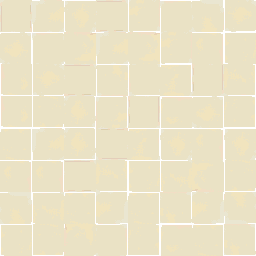
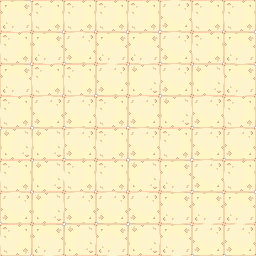
feat(observability): decorative floor everywhere + darker tile as office border
- Floor is now the decorative tile (cream#13) across the whole room, mixed by
  rotation, lightened + slightly more saturated (TONE). Dropped the separate
  corner accent zones.
- The darker cream tiles (#12/#15) now frame the whole office as a BORDER: the
  lane tile backs .oc-floor, an inset ::before field carries the decorative floor,
  leaving a tiled border around the perimeter. Corner props moved inside the frame.

diff --git a/workbench/control_plane/src/app/observability/office-topdown.tsx b/workbench/control_plane/src/app/observability/office-topdown.tsx
@@ -142,9 +142,6 @@ export function TopDownOffice({
         ...(OFFICE_ENV.wall
           ? { "--oc-wall": `url(${OFFICE_ENV.wall})`, "--oc-wall-bg": OFFICE_ENV.wallBg ?? "auto" }
           : {}),
-        ...(OFFICE_ENV.corner
-          ? { "--oc-corner": `url(${OFFICE_ENV.corner})`, "--oc-corner-bg": OFFICE_ENV.cornerBg ?? "auto" }
-          : {}),
         ...(OFFICE_ENV.lane
           ? { "--oc-lane": `url(${OFFICE_ENV.lane})`, "--oc-lane-bg": OFFICE_ENV.laneBg ?? "auto" }
           : {}),
@@ -174,11 +171,6 @@ export function TopDownOffice({
             <span className="oc-sign">THE OFFICE</span>
           </div>
           <div className="oc-floor">
-            {/* Zoned floor: a different Honeytan tile in each corner over the
-                base checker, so the floor reads as a laid-out room. */}
-            {["oc-fz-tl", "oc-fz-tr", "oc-fz-bl", "oc-fz-br"].map((z) => (
-              <span key={z} className={`oc-fz oc-fz-corner ${z}`} aria-hidden />
-            ))}
             {CORNER_PROPS.map(([p, corner]) => (
               // eslint-disable-next-line @next/next/no-img-element
               <img key={p} className={`oc-prop ${corner}`} src={`/office-props/${p}.png`} alt="" aria-hidden />
@@ -204,8 +196,6 @@ export function TopDownOffice({
                 </div>
               ))}
             </div>
-            {/* Walkway lane separating the meeting area from the desks. */}
-            <div className="oc-lane" aria-hidden />
             <div className="oc-grid">
               {roster.map((a) => (
                 <Seat key={a.name} agent={a} state={stateOf(a)} onOpen={onOpen} />
@@ -246,44 +236,34 @@ export const TOPDOWN_STYLE = `
 .oc-sign { font-family:ui-monospace,monospace; font-size:12px; letter-spacing:.28em;
   color:#6f5f3c; text-shadow:0 1px 0 rgba(255,255,255,.5); }
 
-/* Floor — the seamless tile repeats to fill; procedural fallback when no tile yet. */
+/* Floor — the darker lane tile frames the whole office as a BORDER; an inset
+   ::before field carries the main floor tile. */
 .oc-floor {
-  position:relative; padding:58px 16px 54px;
-  background-color:#e9e2d3;
-  background-image:
-    var(--oc-floor, none),
-    repeating-linear-gradient(0deg, transparent, transparent 33px, rgba(0,0,0,.035) 33px, rgba(0,0,0,.035) 34px),
-    repeating-linear-gradient(90deg, transparent, transparent 33px, rgba(0,0,0,.035) 33px, rgba(0,0,0,.035) 34px);
-  background-size: var(--oc-floor-bg,auto), auto, auto;
-  background-repeat: repeat, repeat, repeat;
+  position:relative; padding:58px 46px 54px;
+  background-color:#cbb89a;
+  background-image: var(--oc-lane, none);
+  background-size: var(--oc-lane-bg, auto);
+  background-repeat: repeat;
   image-rendering:pixelated;
   box-shadow: inset 0 14px 26px rgba(0,0,0,.08), inset 0 -12px 22px rgba(0,0,0,.06);
+}
+.oc-floor::before {
+  content:''; position:absolute; inset:34px; z-index:0; pointer-events:none;
+  background-image: var(--oc-floor, none);
+  background-size: var(--oc-floor-bg, auto);
+  background-repeat: repeat; image-rendering:pixelated; border-radius:5px;
+  box-shadow: inset 0 0 0 2px rgba(0,0,0,.10), 0 0 0 1px rgba(255,255,255,.10),
+    inset 0 12px 22px rgba(0,0,0,.05);
 }
 
 /* Corner props stay pinned to the room corners at ANY size. Scaled to sit in
    proportion to the seated agents (~90px), not tiny. */
 .oc-prop { position:absolute; height:74px; z-index:1; image-rendering:pixelated;
   filter:drop-shadow(0 4px 3px rgba(0,0,0,.32)); pointer-events:none; }
-.oc-prop.oc-tl { top:8px;  left:14px; }
-.oc-prop.oc-tr { top:8px;  right:14px; }
-.oc-prop.oc-bl { bottom:12px; left:14px; }
-.oc-prop.oc-br { bottom:12px; right:14px; }
-
-/* Zoned floor — a different Honeytan tile in each corner over the base checker,
-   plus a plank walkway lane, so the floor reads as a laid-out room not one repeat. */
-.oc-fz { position:absolute; z-index:0; pointer-events:none; image-rendering:pixelated;
-  background-repeat:repeat; background-size: var(--oc-corner-bg,auto); }
-.oc-fz-corner { width:clamp(120px, 22%, 200px); height:clamp(96px, 20%, 168px);
-  background-image: var(--oc-corner);
-  box-shadow: inset 0 0 0 2px rgba(0,0,0,.05); }
-.oc-fz-tl { top:0; left:0; border-bottom-right-radius:16px; }
-.oc-fz-tr { top:0; right:0; border-bottom-left-radius:16px; }
-.oc-fz-bl { bottom:0; left:0; border-top-right-radius:16px; }
-.oc-fz-br { bottom:0; right:0; border-top-left-radius:16px; }
-.oc-lane { position:relative; z-index:2; height:76px; margin:0 -16px 16px;
-  background-image: var(--oc-lane); image-rendering:pixelated; background-repeat:repeat;
-  background-size: var(--oc-lane-bg,auto);
-  box-shadow: inset 0 7px 12px rgba(0,0,0,.10), inset 0 -7px 12px rgba(0,0,0,.10); }
+.oc-prop.oc-tl { top:40px;  left:44px; }
+.oc-prop.oc-tr { top:40px;  right:44px; }
+.oc-prop.oc-bl { bottom:42px; left:44px; }
+.oc-prop.oc-br { bottom:42px; right:44px; }
 
 /* Conference zone — one table by default; wraps to a grid of tables as more
    collaborations spawn. */
@@ -351,10 +331,12 @@ export const TOPDOWN_STYLE = `
   .oc-figure { height:104px; }
   .oc-static { height:104px; }
   .oc-anim { --w:104px; }
-  .oc-floor { padding:52px 8px 46px; }
+  .oc-floor { padding:48px 26px 42px; }
+  .oc-floor::before { inset:16px; }
   .oc-prop { height:56px; }
+  .oc-prop.oc-tl { top:22px; left:22px; }
+  .oc-prop.oc-bl { bottom:24px; left:22px; }
   .oc-prop.oc-tr, .oc-prop.oc-br { display:none; }
-  .oc-lane { margin:0 -8px 12px; height:58px; }
   .oc-sign { display:none; }
 }
 

diff --git a/workbench/control_plane/src/app/observability/office-env.generated.ts b/workbench/control_plane/src/app/observability/office-env.generated.ts
@@ -4,14 +4,12 @@
 
 export interface OfficeEnv {
   floor?: string; floorBg?: string;
-  corner?: string; cornerBg?: string;
   lane?: string; laneBg?: string;
   wall?: string; wallBg?: string;
 }
 
 export const OFFICE_ENV: OfficeEnv = {
   floor: "/office-env/floor-floor.png", floorBg: "320px",
-  corner: "/office-env/floor-corner.png", cornerBg: "80px",
   lane: "/office-env/floor-lane.png", laneBg: "240px",
   wall: "/office-env/floor-wall.png", wallBg: "320px",
 };

diff --git a/workbench/control_plane/scripts/characters/gen_honeytan.py b/workbench/control_plane/scripts/characters/gen_honeytan.py
@@ -18,7 +18,7 @@ import random
 import re
 import urllib.request
 
-from PIL import Image
+from PIL import Image, ImageEnhance
 
 import mcp
 
@@ -36,11 +36,12 @@ SETS = {
 ALL_ROT = [0, 90, 180, 270]
 # role -> (set, [indices to mix], cols, rows, [allowed rotations])
 ZONES = {
-    "floor": ("cream", [0, 2, 3, 6, 7, 9, 10, 11, 14], 8, 8, ALL_ROT),
-    "corner": ("cream", [13], 2, 2, ALL_ROT),        # decorative accent
-    "lane": ("cream", [12, 15], 6, 2, ALL_ROT),      # darker walkway
+    "floor": ("cream", [13], 8, 8, ALL_ROT),         # the decorative tile everywhere
+    "lane": ("cream", [12, 15], 6, 2, ALL_ROT),      # darker tile: office BORDER frame
     "wall": ("wood", [0, 2, 3, 7, 9, 11], 8, 2, [0, 180]),  # keep planks vertical
 }
+# role -> (brightness, saturation) multipliers. Floor: lighter + a touch more saturated.
+TONE = {"floor": (1.08, 1.18)}
 
 _ROT = {0: None, 90: Image.ROTATE_90, 180: Image.ROTATE_180, 270: Image.ROTATE_270}
 _UA = urllib.request.build_opener()
@@ -74,6 +75,9 @@ def main():
     for role, (set_key, idxs, cols, rows, rots) in ZONES.items():
         tiles = fetch_tiles(set_key, idxs)
         img = mosaic(tiles, idxs, cols, rows, rots, rng)
+        if role in TONE:
+            tb, ts = TONE[role]
+            img = ImageEnhance.Color(ImageEnhance.Brightness(img).enhance(tb)).enhance(ts)
         name = f"floor-{role}.png"
         img.save(f"{OUT}/{name}")
         saved[role] = f"/office-env/{name}"
@@ -87,14 +91,12 @@ def main():
         "",
         "export interface OfficeEnv {",
         "  floor?: string; floorBg?: string;",
-        "  corner?: string; cornerBg?: string;",
         "  lane?: string; laneBg?: string;",
         "  wall?: string; wallBg?: string;",
         "}",
         "",
         "export const OFFICE_ENV: OfficeEnv = {",
         f'  floor: {json.dumps(saved["floor"])}, floorBg: {json.dumps(bg["floor"])},',
-        f'  corner: {json.dumps(saved["corner"])}, cornerBg: {json.dumps(bg["corner"])},',
         f'  lane: {json.dumps(saved["lane"])}, laneBg: {json.dumps(bg["lane"])},',
         f'  wall: {json.dumps(saved["wall"])}, wallBg: {json.dumps(bg["wall"])},',
         "};",